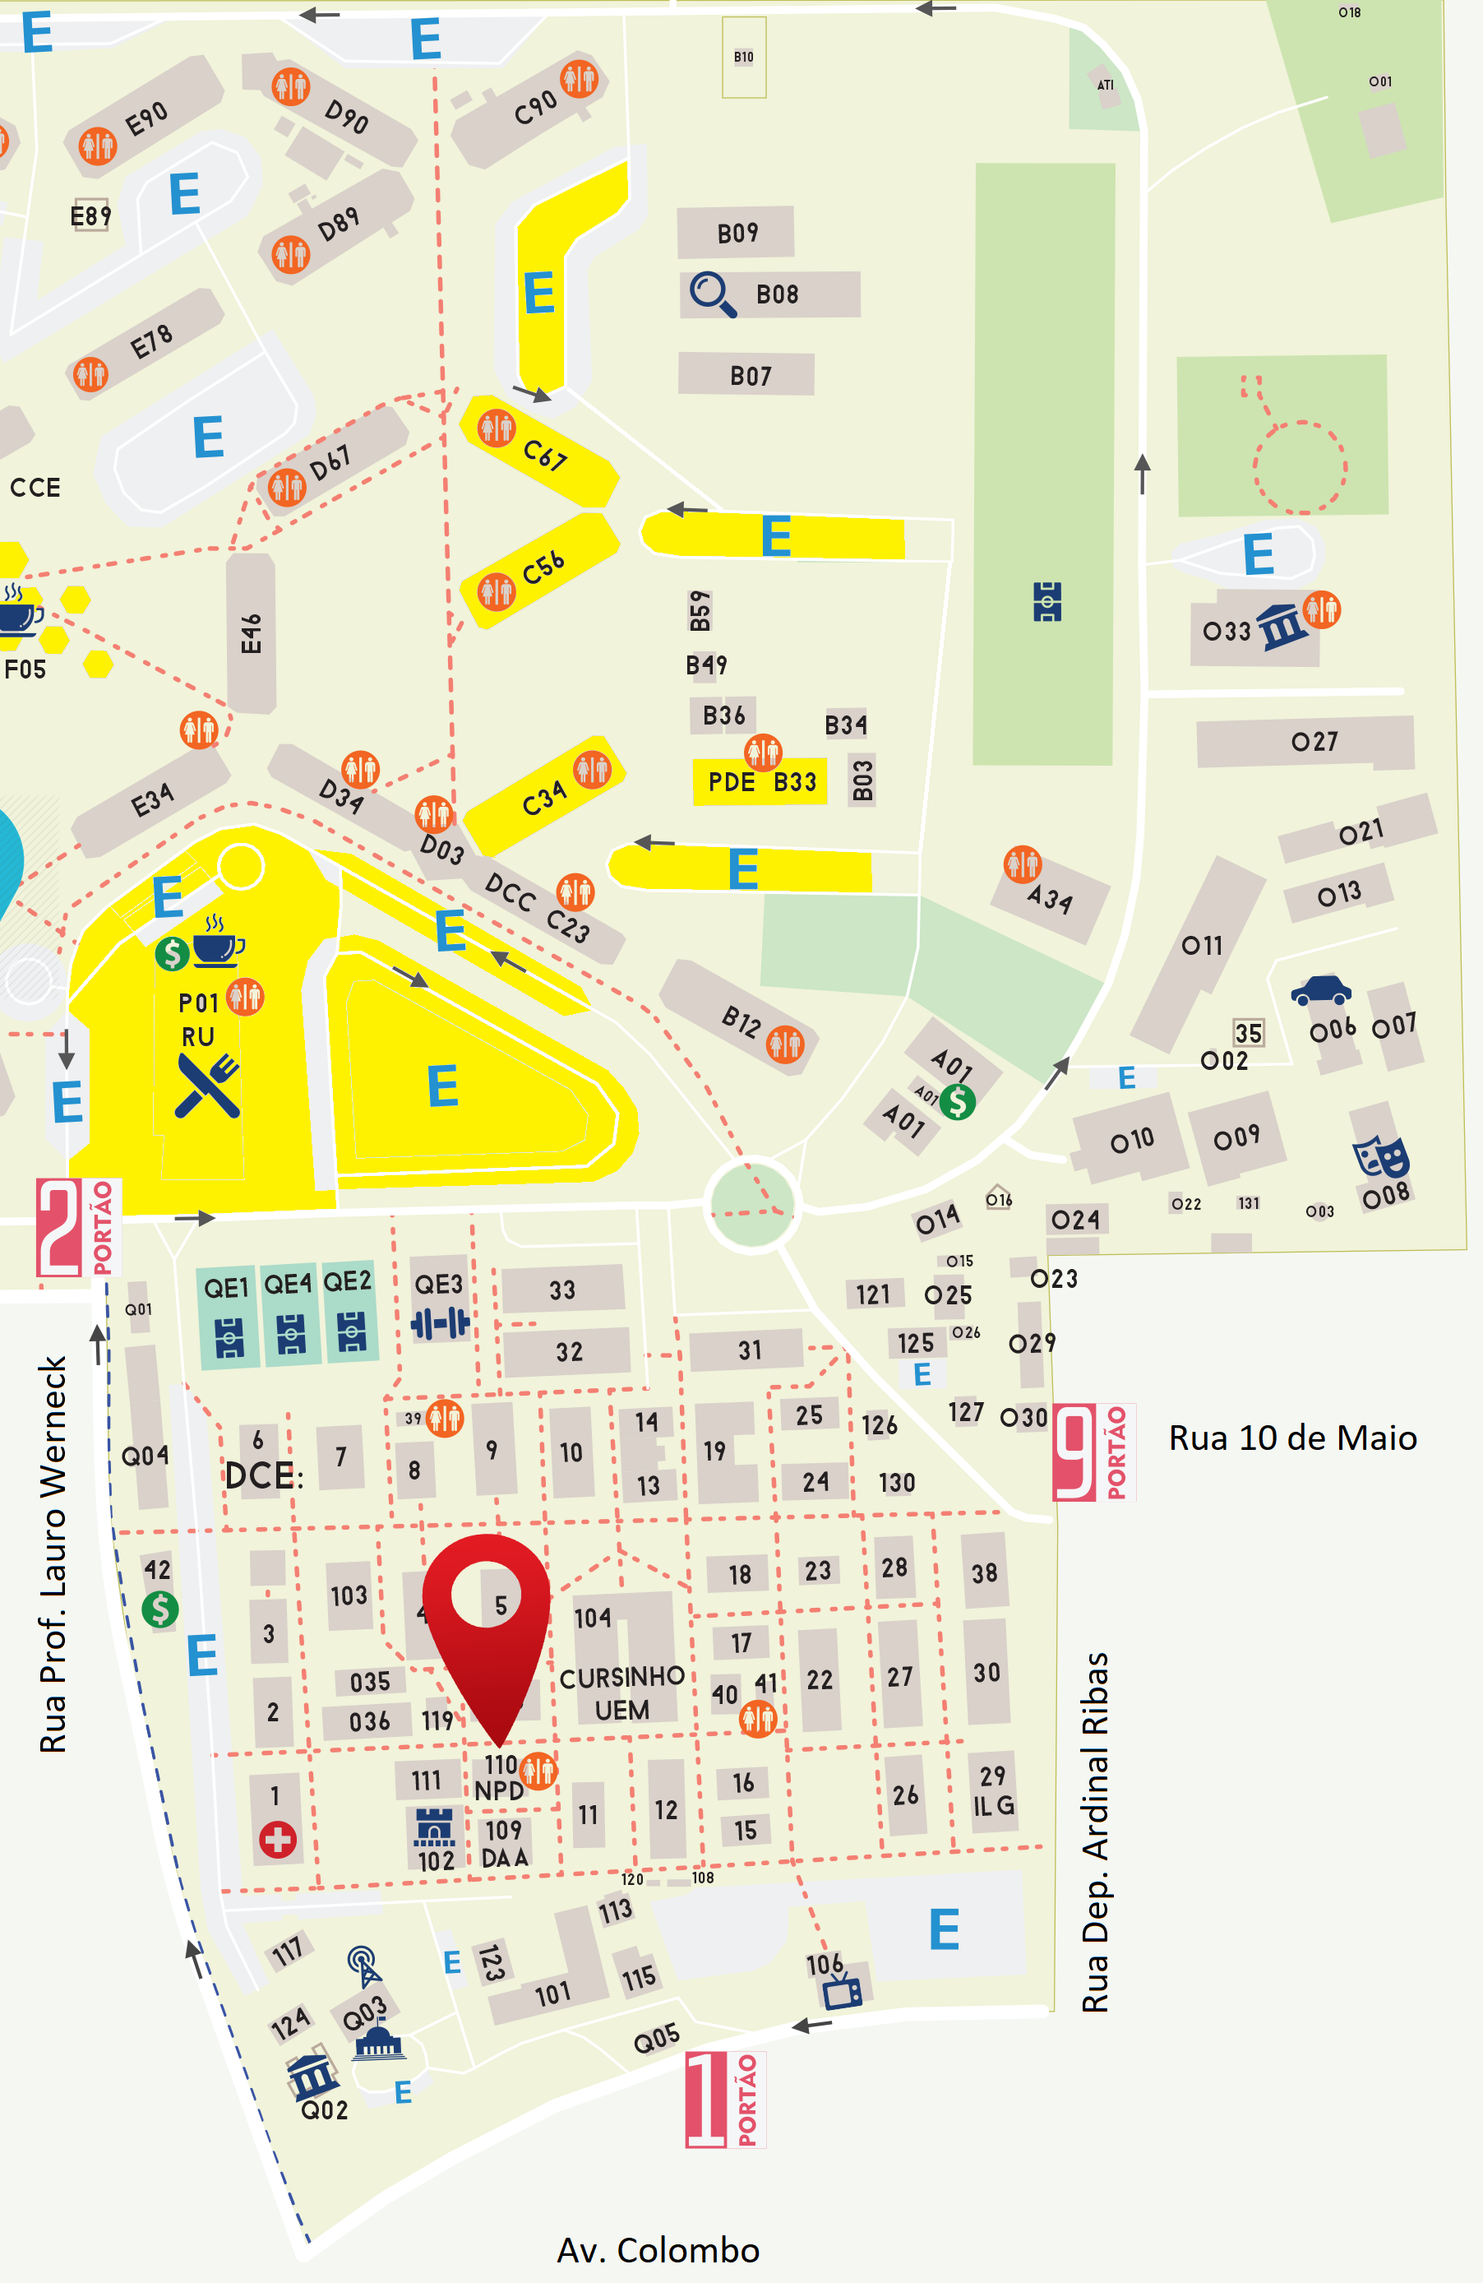
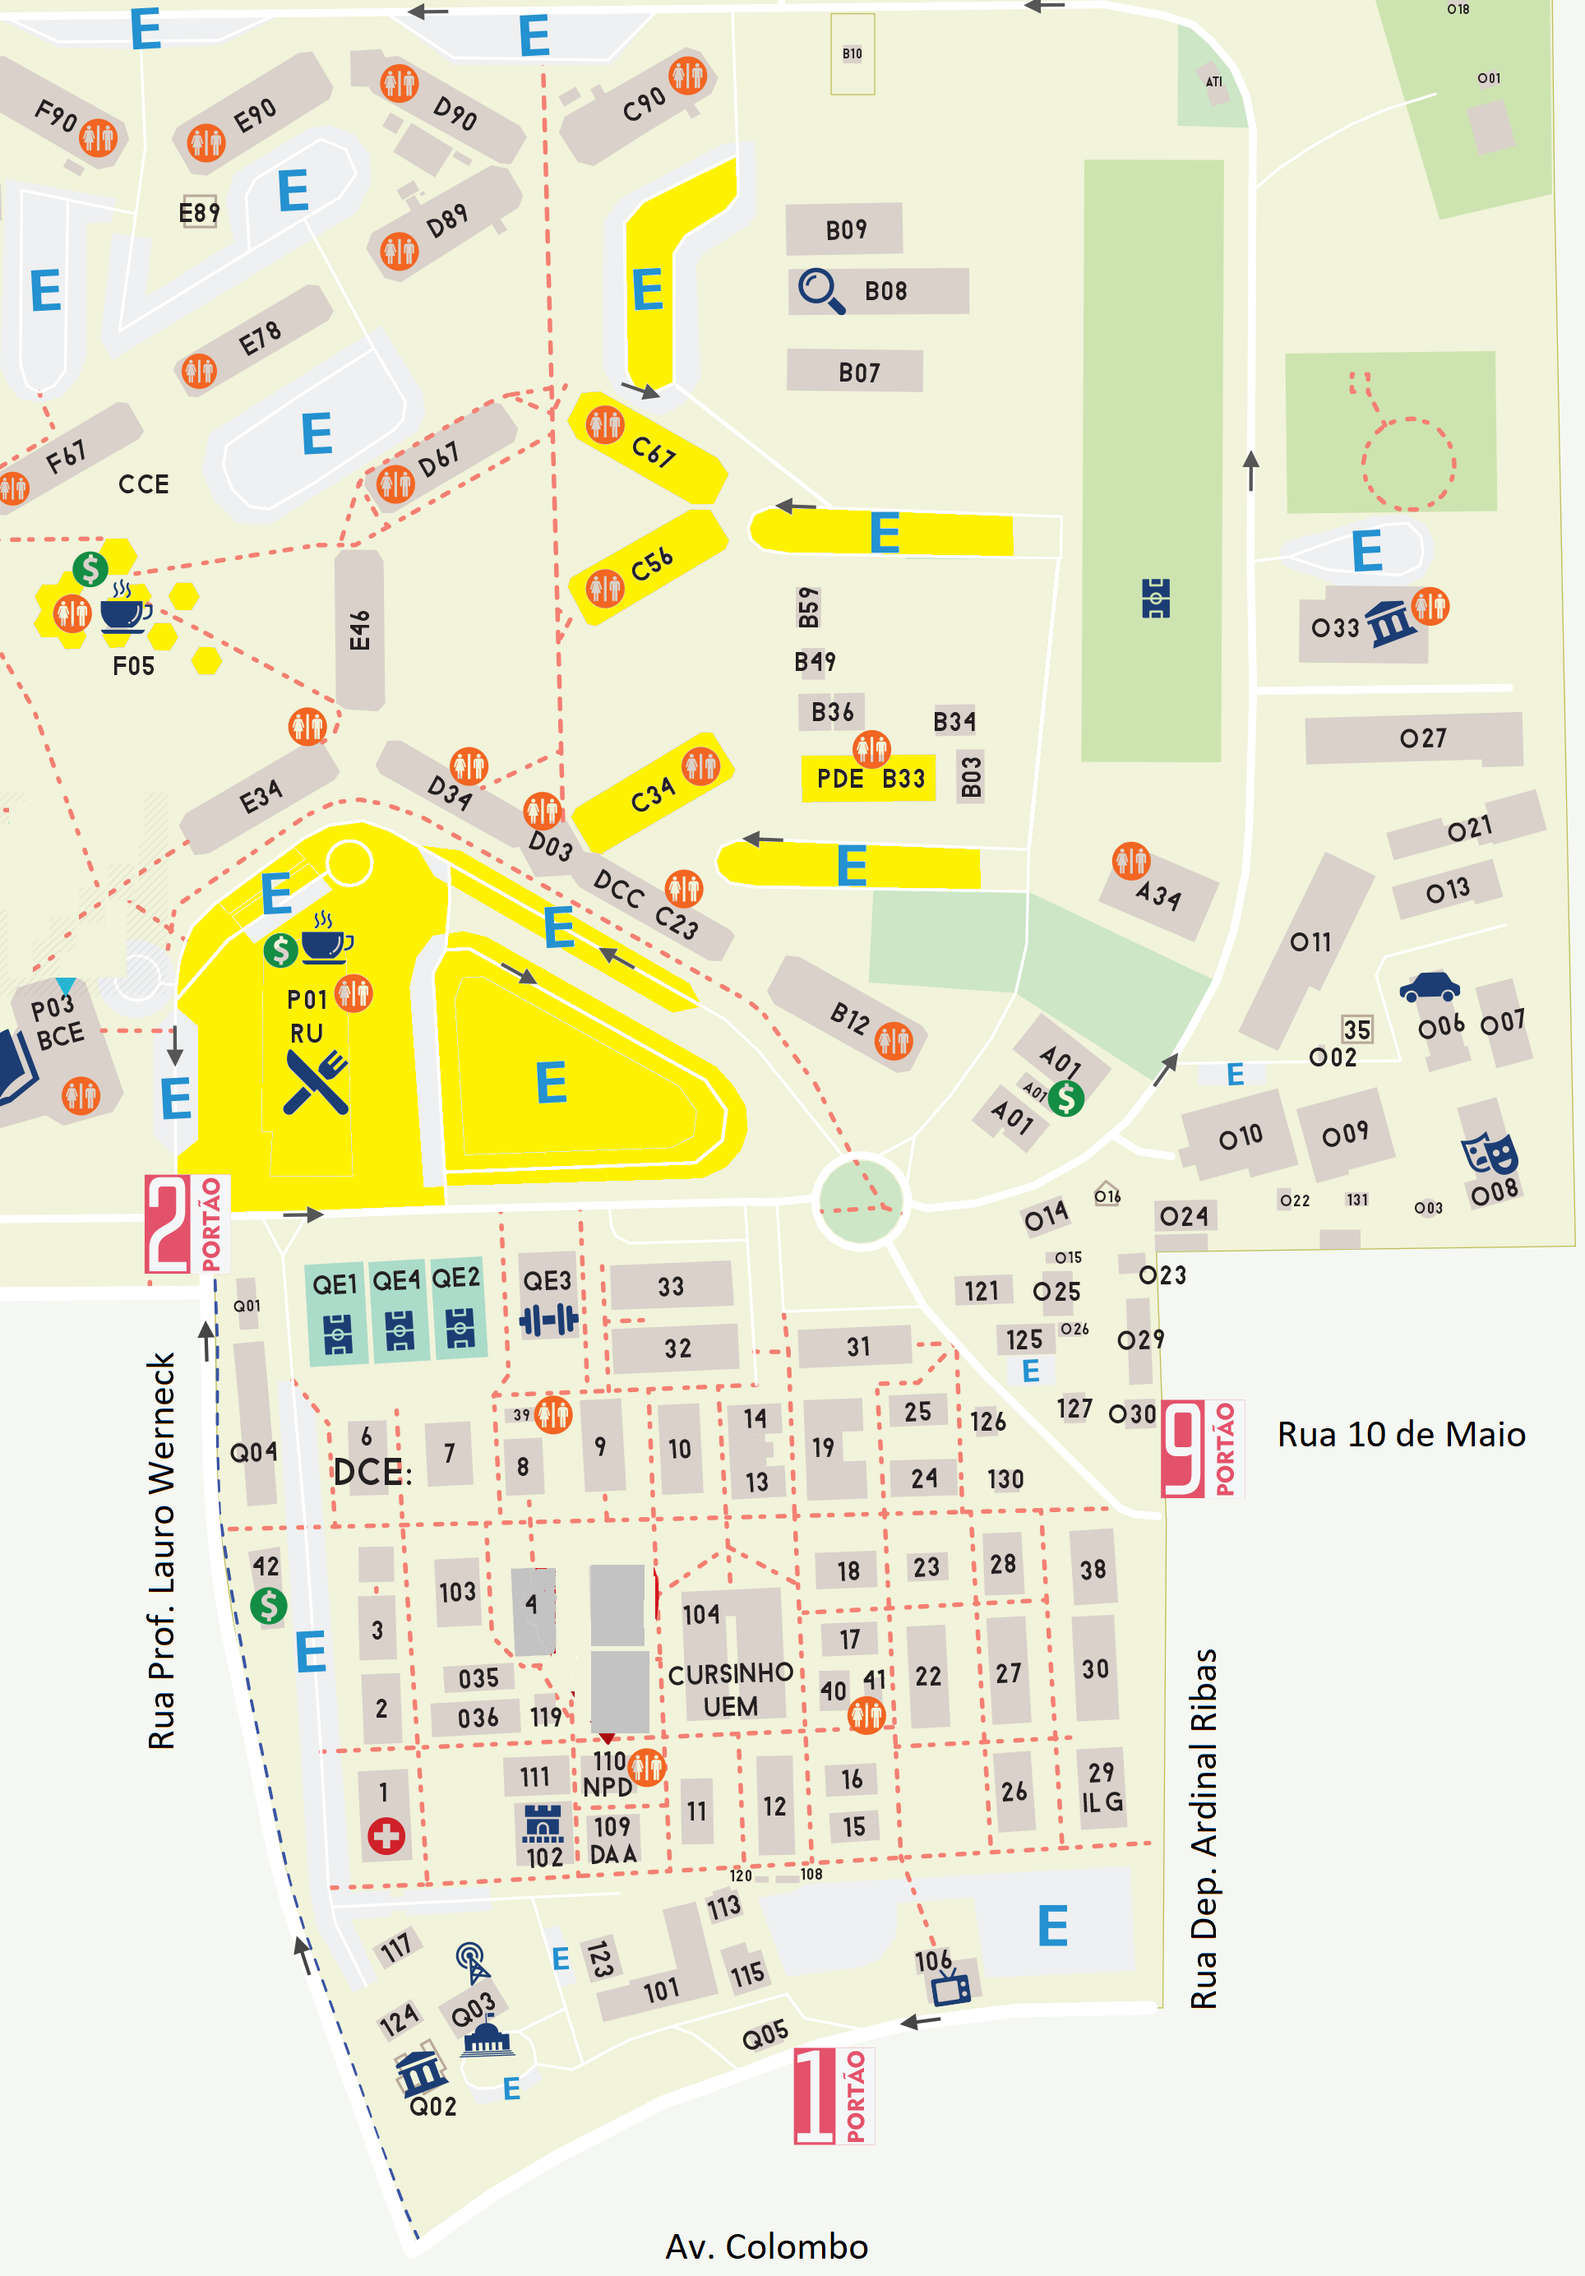
mapas

diff --git a/pages/como_chegar.md b/pages/como_chegar.md
@@ -7,7 +7,32 @@ header:
    image_fullwidth: banner_eres2020.png
 ---
 
-<h2>Visão Geral da UEM</h2>
+Os pontos em amarelo representam:
+<ul>
+	<li><b>Bloco C56 - Departamento de Informática</b></li>
+		<ul>
+			<li>Sala 002 - Credenciamento (Térreo)</li>
+			<li>Sala 010 - Minicursos - Laboratório LIN2 (Térreo)</li>
+			<li>Sala 012 - Minicursos - Laboratório LIN1 (Térreo)</li>
+			<li>Sala xxx - Minicursos - Laboratório LIN4 (Térreo)</li>
+			<li>Sala 102 - Auditório do DIN (2o. Pavimento)</li>
+			<li>Sala 101 - Sessões Técnicas (2o. Pavimento)</li>
+		</ul>
+		
+	<li><b>Bloco C34 - Departamento de Economia - Auditório (Sala 013??? - Térreo)</b></li>
+	
+	<li><b>Bloco C67 - Centro de Tecnologia - Auditório (Sala xxx - Térreo)</b></li>
+	
+	<li><b>Bloco B33 - Auditório do PDE (Térreo)</b></li>
+	
+	<li><b>P01 - <a href="http://www.ru.uem.br" target="_blank">Restaurante Universitário (RU)</a> - Almoço e Jantar</b></li>
+	
+	<li><b>E - Estacionamentos</b></li>
+	
+	<li><b>F05 - Cantina - Café</b></li>
+</ul>
+
+<h2>Mapa Geral da UEM</h2>
 
 <div class="medium-32 columns">
 	<img src="{{ site.urlimg }}mapa_uem_eres.png" alt="">
@@ -17,7 +42,7 @@ header:
 <br>
 
 
-<h2>Visão Geral do Local da ERES 2020</h2>
+<h2>Mapa do Local da ERES 2020</h2>
 
 <div class="medium-32 columns">
 	<img src="{{ site.urlimg }}mapa_UEM_eres_corte.png" alt="">
